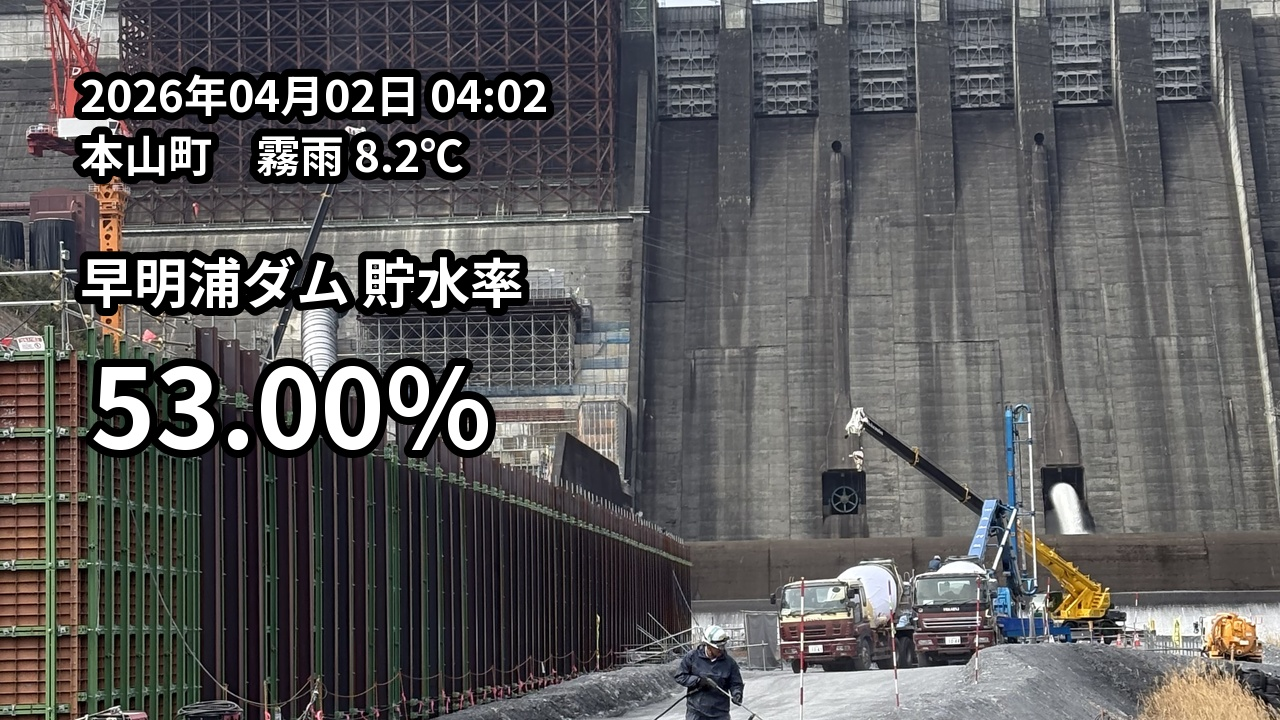
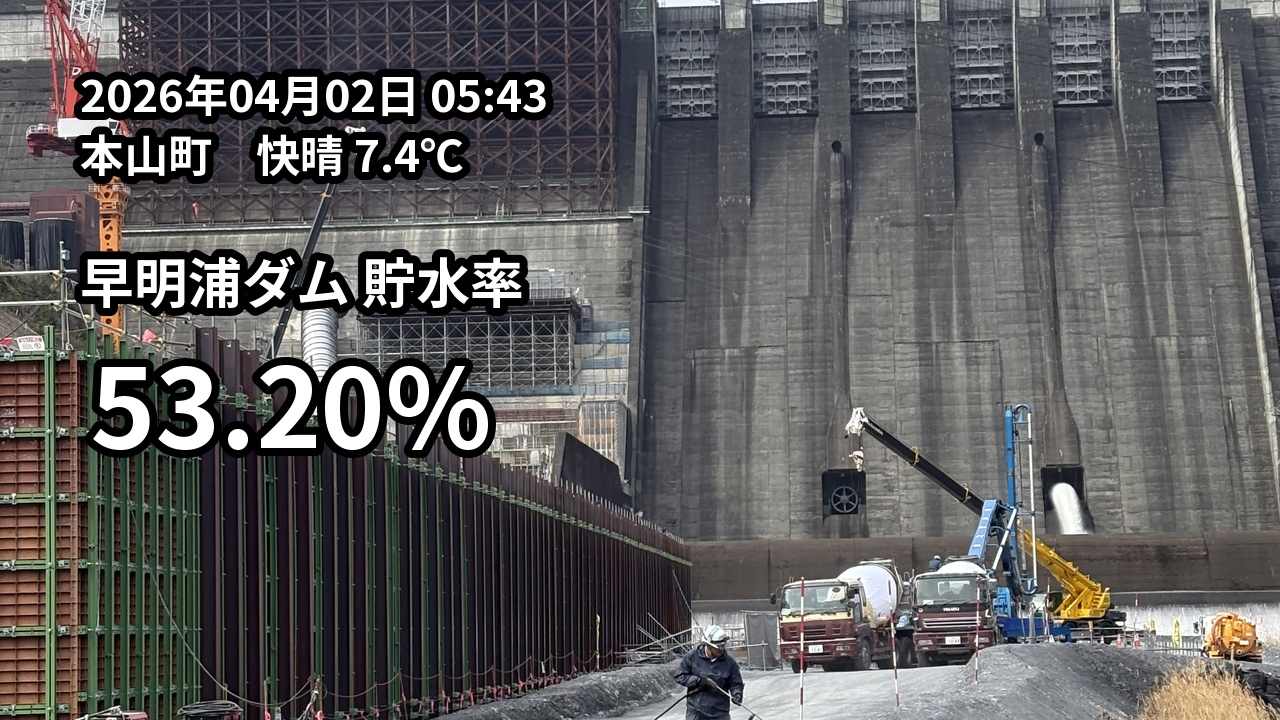
Update daily image

Changed region(s): [[0.1875, 0.1833, 0.3438, 0.275], [0.1875, 0.4889, 0.25, 0.6417], [0.3438, 0.0917, 0.4375, 0.1833]]

diff --git a/index.html b/index.html
@@ -10,6 +10,6 @@
   </style>
 </head>
 <body>
-  <img src="result.jpg?v=202604020402" alt="早明浦ダム 貯水率" />
+  <img src="result.jpg?v=202604020543" alt="早明浦ダム 貯水率" />
 </body>
 </html>
